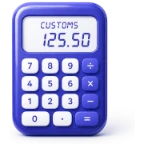
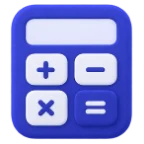
Bojxona bo'limining olti ikonkasi — yangi 3D to'plam
Bog'lanish, bojsiz olib kirish me'yori, kalkulyator, rasmiylashtirish
tartibi, taqiqlangan tovarlar va yagona to'lov uchun yangi ikonkalar.

Bular shaffof fonda, o'z plitasisiz — shuning uchun bo'limning rangli
48 px plitalari va ulardagi mavzu tinti o'z holida qoldi, faqat ikonka
almashdi. Manbalar kvadratga to'ldirildi (asl nisbat saqlanadi), keyin
npm run icons ularni 144 px ga keltirdi.

  icons/ jami 173 KB -> 166 KB

Claude-Session: https://claude.ai/code/session_013YY2HjPmapjsnxB9N1S87s

diff --git a/sw.js b/sw.js
@@ -8,7 +8,7 @@
  *     qat'i nazar saqlanadigan keshda qoladi.
  *   - Valyuta kursi kabi API so'rovlari keshlanmaydi.
  */
-const VERSION = 'b1e4d7fe62a1';
+const VERSION = 'ec69b9d47f02';
 const CACHE = 'xarid-' + VERSION;
 /* Logotiplar keshi ilova versiyasiga bog'lanmaydi: yangilanish chiqqanda
    ular qaytadan yuklanmaydi. */
